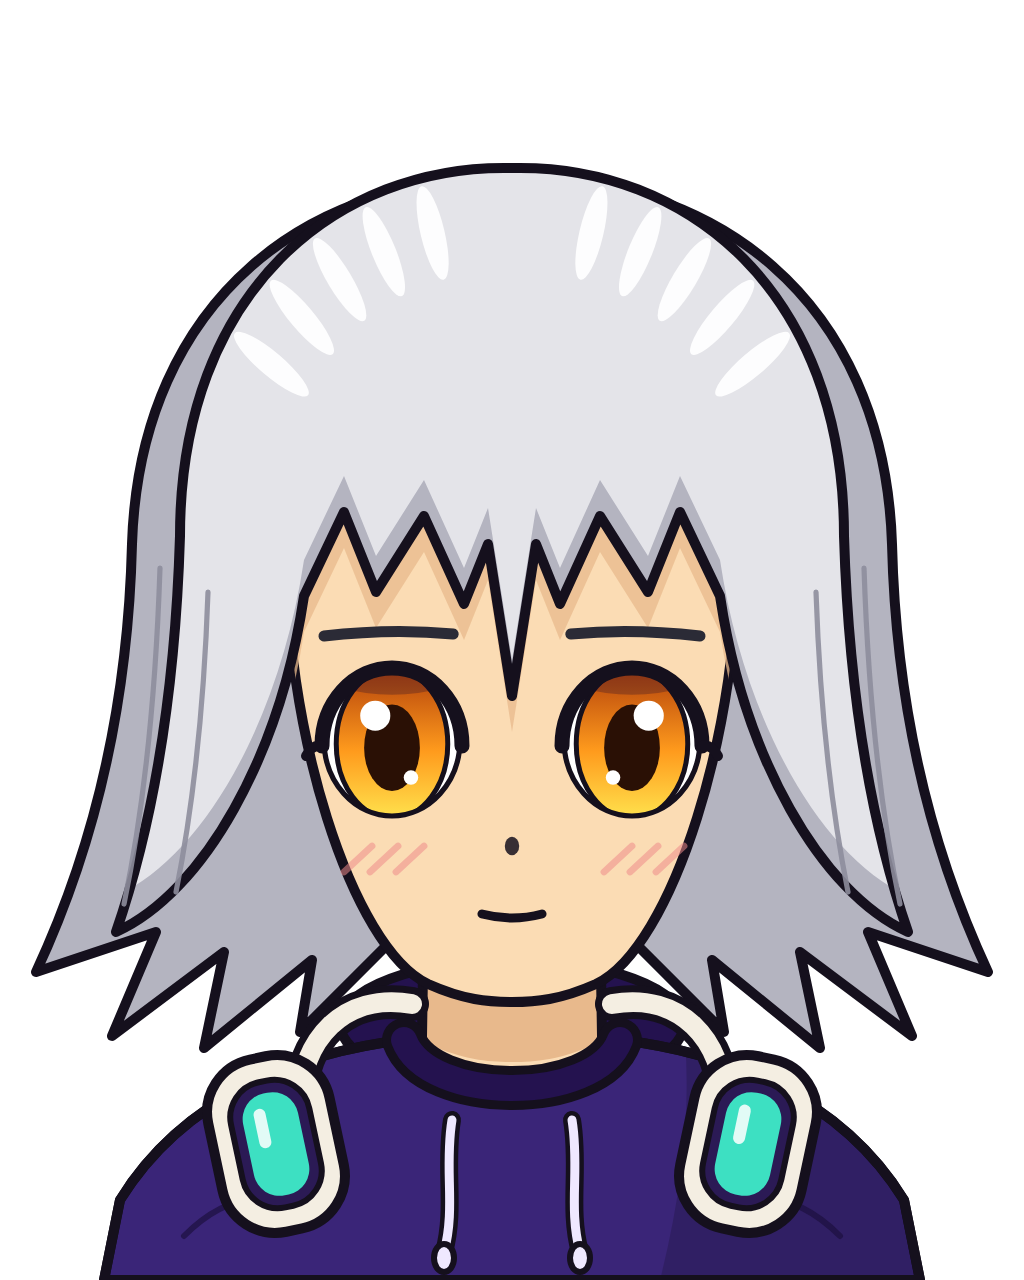
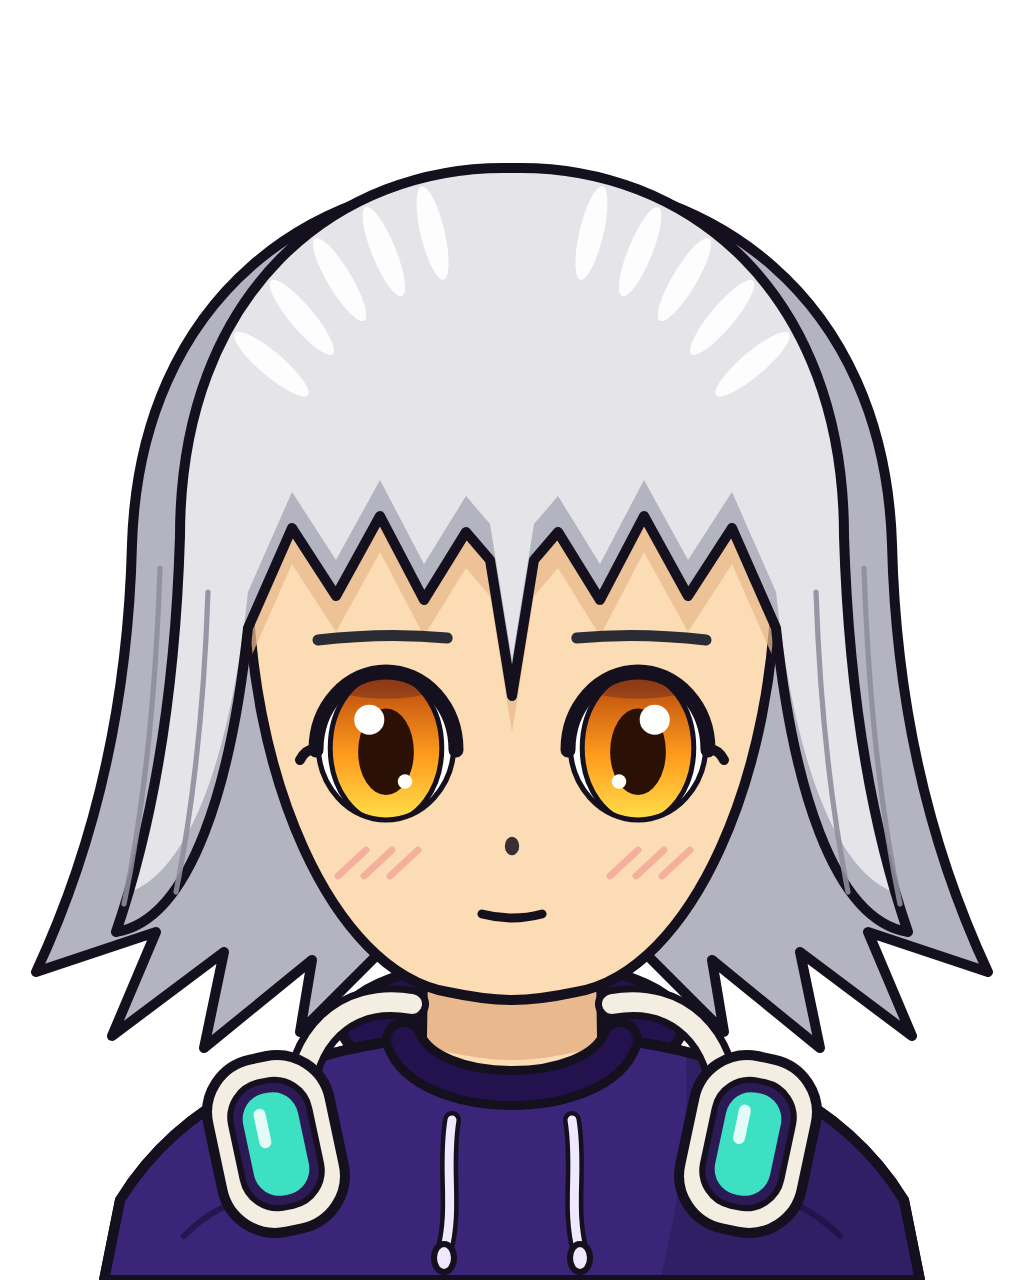
Livy: rounder, fuller face; side locks opened to show cheeks
Claude-Session: https://claude.ai/code/session_01YQ1ps6WRDfJspdAGQPWCvH

Changed region(s): [[0.125, 0.375, 0.875, 0.7812]]

diff --git a/livy/gerador/engine.js b/livy/gerador/engine.js
@@ -28,10 +28,10 @@ function symPath(start, segs) {
 
 // ---------------------------------------------------------------- rostos
 const FACES = {
-  child: symPath([256, 124], [
-    ['C', 196, 124, 146, 160, 143, 232],
-    ['C', 141, 330, 176, 440, 214, 458],
-    ['C', 232, 466, 244, 467, 256, 467]]),
+  child: symPath([256, 118], [
+    ['C', 182, 118, 126, 164, 124, 248],
+    ['C', 123, 352, 166, 452, 224, 462],
+    ['C', 238, 465, 247, 466, 256, 466]]),
   adult: symPath([256, 116], [
     ['C', 196, 116, 152, 150, 150, 222],
     ['C', 148, 330, 176, 440, 222, 478],
@@ -43,7 +43,7 @@ const FACES = {
 };
 const PROFILES = {
   //        olhos: rx ry  centro-y  dx   boca-y  nariz-y  pescoço  ombro-x
-  child:  { rx: 34, ry: 38, ey: 336, dx: 60, my: 419, ny: 389, neck: 44, xl: 52, mscale: 1.0, ear: false, dy: 34 },
+  child:  { rx: 34, ry: 38, ey: 338, dx: 63, my: 419, ny: 389, neck: 44, xl: 52, mscale: 1.0, ear: false, dy: 34 },
   adult:  { rx: 25, ry: 27, ey: 332, dx: 58, my: 418, ny: 388, neck: 50, xl: 34, mscale: 0.92, ear: true, dy: 26 },
   elder:  { rx: 21, ry: 23, ey: 334, dx: 56, my: 420, ny: 390, neck: 50, xl: 40, mscale: 0.9, ear: true, dy: 26 },
   square: { rx: 24, ry: 26, ey: 332, dx: 60, my: 424, ny: 392, neck: 62, xl: 10, mscale: 1.0, ear: true, dy: 22 },

diff --git a/livy/gerador/personagens.js b/livy/gerador/personagens.js
@@ -52,8 +52,8 @@ chars.livy = {
     const capD = symPath([256, 50], [
       ['C', 168, 48, 90, 112, 90, 234],
       ['C', 88, 300, 80, 368, 58, 432],
-      ['C', 102, 412, 140, 344, 152, 264],
-      ['L', 172, 222], ['L', 188, 262], ['L', 212, 224], ['L', 232, 268], ['L', 244, 238], ['L', 256, 314]]);
+      ['C', 96, 426, 116, 356, 124, 280],
+      ['L', 146, 230], ['L', 168, 264], ['L', 190, 224], ['L', 212, 266], ['L', 233, 232], ['L', 245, 246], ['L', 256, 314]]);
     const back = P(backD, H.shade, 5);
     const preNeck = `<ellipse cx="256" cy="512" rx="86" ry="32" fill="${HOODIE_DARK}" stroke="${INK}" stroke-width="5"/>`;
     const strings = `${L('M226 560 C222 584 228 604 222 626', 9, INK)}${L('M226 560 C222 584 228 604 222 626', 4.5, '#efe8ff')}`
